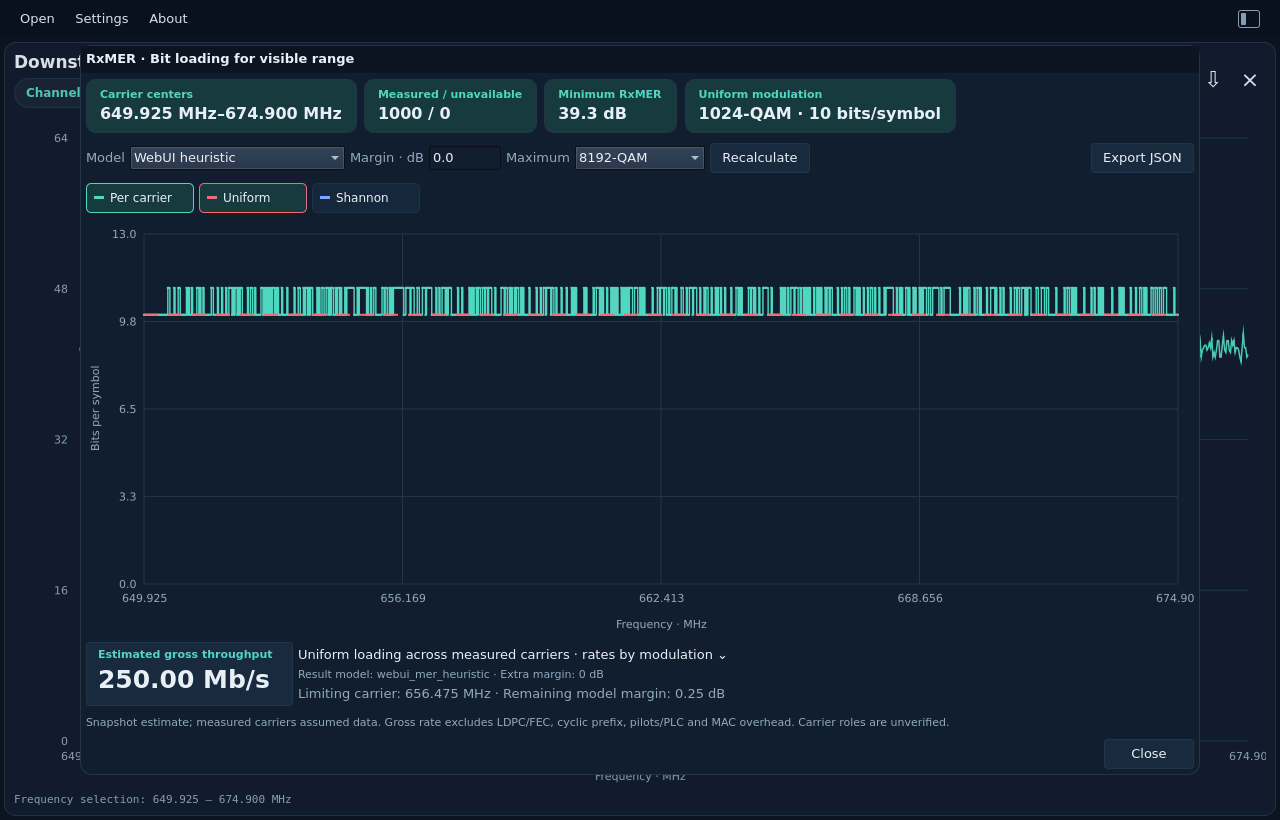
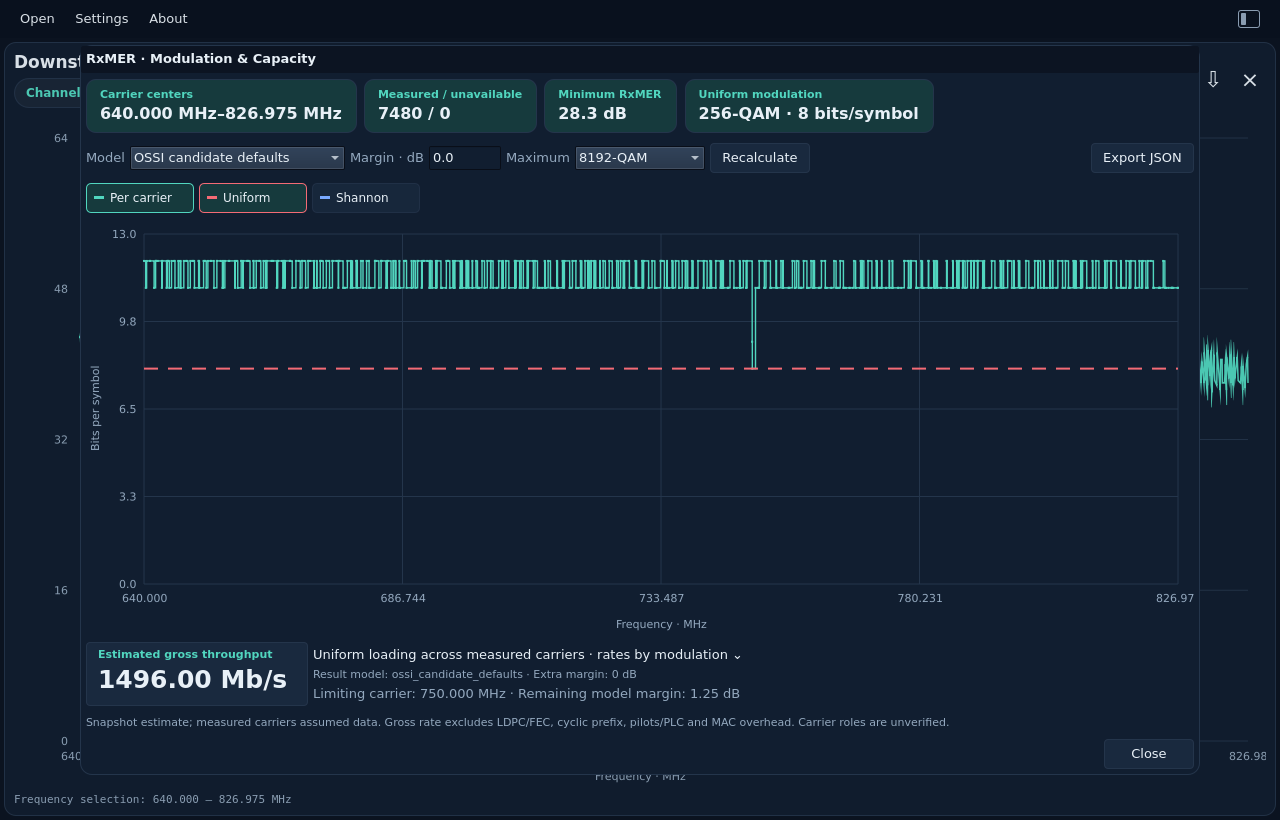
BugFix: Improve full-capture RxMER analysis - Rename popup to Modulation & Capacity - Default viewer analysis to OSSI candidate targets - Explain results below the selected model minimum - Highlight Recalculate when settings change - Preserve the CLI default and document model choice - Refresh user 

diff --git a/apps/qt/tests/tst_rxmer.qml b/apps/qt/tests/tst_rxmer.qml
@@ -48,27 +48,107 @@ TestCase {
         original.spectrumEnabled = false
         insights.working = false
         insights.selectedCap = 13
+        findChild(insights.contentItem,"rxmerBitLoadingModel").currentIndex = 1
     }
     function cleanup() { insights.close() }
+    function test_full_capture_below_model_target_is_a_completed_result_data() {
+        return [{tag: "dark", preference: 1}, {tag: "light", preference: 2}]
+    }
+    function test_full_capture_below_model_target_is_a_completed_result(data) {
+        const zoomAnalysis = insights.analysis
+        try {
+            appearance.preference = data.preference
+            insights.analysis = Object.assign({}, zoomAnalysis, {
+                selection: {start_frequency_hz:640000000,stop_frequency_hz:826975000},
+                coverage: {measured_count:7480,unavailable_count:0},
+                summary: {minimum_rxmer_db:28.25,uniform_bit_loading:null,uniform_modulation:null,
+                    limiting_frequency_hz:750000000,status:"below_model_minimum"},
+                rate: {estimated_gross_rate_bps:null}
+            })
+            insights.openRange(0,7480)
+            tryCompare(insights,"opened",true)
+            compare(insights.title,"RxMER · Modulation & Capacity")
+            compare(requests[0].start,0)
+            compare(requests[0].count,7480)
+            const status = findChild(insights.contentItem,"rxmerModulationStatus")
+            verify(status.visible)
+            verify(status.text.indexOf("Analysis complete") >= 0)
+            verify(status.text.indexOf("weakest carrier") >= 0)
+            compare(findChild(insights.contentItem,"rxmerGrossRateValue").text,"Unavailable")
+            verify(findChild(insights.contentItem,"rxmerGrossRateChip").enabled)
+        } finally {
+            insights.close()
+            insights.analysis = zoomAnalysis
+        }
+    }
+    function test_changed_controls_emphasize_recalculate_until_result_arrives_data() {
+        return [{tag: "dark", preference: 1}, {tag: "light", preference: 2}]
+    }
+    function test_changed_controls_emphasize_recalculate_until_result_arrives(data) {
+        const savedAnalysis = insights.analysis
+        const margin = findChild(insights.contentItem,"rxmerBitLoadingMargin")
+        const model = findChild(insights.contentItem,"rxmerBitLoadingModel")
+        const recalculate = findChild(insights.contentItem,"recalculateRxmerBitLoading")
+        try {
+            appearance.preference = data.preference
+            margin.text = "0.0"
+            insights.analysis = Object.assign({}, savedAnalysis, {
+                model: {id:"ossi_candidate_defaults",extra_margin_db:0,maximum_bit_loading:13}
+            })
+            insights.openRange(0,7480)
+            tryCompare(insights,"opened",true)
+            compare(recalculate.borderHighlighted,false)
+            margin.text = "1.0"
+            compare(recalculate.borderHighlighted,true)
+            compare(recalculate.background.border.color,appearance.accent)
+            compare(recalculate.background.border.width,2)
+            margin.text = "0.0"
+            compare(recalculate.borderHighlighted,false)
+            model.currentIndex = 0
+            compare(recalculate.borderHighlighted,true)
+            model.currentIndex = 1
+            compare(recalculate.borderHighlighted,false)
+            insights.selectedCap = 10
+            compare(recalculate.borderHighlighted,true)
+            mouseClick(recalculate)
+            compare(requests[requests.length-1].cap,10)
+            // A submitted request is not yet a successful result.
+            compare(recalculate.borderHighlighted,true)
+            insights.working = true
+            compare(recalculate.borderHighlighted,true)
+            insights.working = false
+            insights.analysis = Object.assign({}, savedAnalysis, {
+                model: {id:"ossi_candidate_defaults",extra_margin_db:0,maximum_bit_loading:10}
+            })
+            compare(recalculate.borderHighlighted,false)
+            insights.selectedCap = 13
+            compare(recalculate.borderHighlighted,true)
+        } finally {
+            insights.close()
+            insights.analysis = savedAnalysis
+            insights.selectedCap = 13
+            margin.text = "0.0"
+        }
+    }
     function test_popup_uses_original_zoom_model_margin_and_uniform_rate() {
         insights.openRange(400,1001)
         tryCompare(insights,"opened",true)
         compare(requests.length,1)
         compare(requests[0].start,400)
         compare(requests[0].count,1001)
-        compare(requests[0].model,"webui_mer_heuristic")
+        compare(requests[0].model,"ossi_candidate_defaults")
         compare(requests[0].cap,13)
         compare(findChild(insights.contentItem,"rxmerGrossRateValue").text,"250.25 Mb/s")
         const margin = findChild(insights.contentItem,"rxmerBitLoadingMargin")
         const model = findChild(insights.contentItem,"rxmerBitLoadingModel")
         const recalculate = findChild(insights.contentItem,"recalculateRxmerBitLoading")
         margin.text = "1.5"
-        model.currentIndex = 1
+        model.currentIndex = 0
         verify(waitForRendering(recalculate))
         mouseClick(recalculate)
         compare(requests.length,2)
         compare(requests[1].margin,1.5)
-        compare(requests[1].model,"ossi_candidate_defaults")
+        compare(requests[1].model,"webui_mer_heuristic")
         margin.text = "-1"
         compare(recalculate.enabled,false)
         margin.text = "0.0"

diff --git a/apps/qt/qml/RxMerBitLoadingDialog.qml b/apps/qt/qml/RxMerBitLoadingDialog.qml
@@ -19,6 +19,10 @@ Dialog {
     readonly property var summary: analysis.summary || ({})
     readonly property var selection: analysis.selection || ({})
     readonly property var coverage: analysis.coverage || ({})
+    readonly property bool settingsChanged: !!analysis.model && (
+        (model.currentValue || "ossi_candidate_defaults") !== analysis.model.id
+        || Number(margin.text) !== analysis.model.extra_margin_db
+        || selectedCap !== analysis.model.maximum_bit_loading)
     signal analysisRequested(int start, int count, string model, real marginDb, int cap)
     signal cancelRequested()
     signal exportRequested()
@@ -28,7 +32,7 @@ Dialog {
     height: Math.min(730, parent ? parent.height - 32 : 730)
     modal: true
     focus: true
-    title: "RxMER · Bit loading for visible range"
+    title: "RxMER · Modulation & Capacity"
     background: Rectangle { color: dialog.theme.panel; border.color: dialog.theme.line; radius: 12 }
     onClosed: { ratesDialog.close(); cancelRequested() }
     /*
@@ -43,7 +47,7 @@ Dialog {
         requestAnalysis()
     }
     function requestAnalysis() {
-        analysisRequested(rangeStart, rangeCount, model.currentValue || "webui_mer_heuristic", Number(margin.text), selectedCap)
+        analysisRequested(rangeStart, rangeCount, model.currentValue || "ossi_candidate_defaults", Number(margin.text), selectedCap)
     }
     function rateText(value) {
         return value === null || value === undefined ? "Unavailable" : (value / 1000000).toFixed(2) + " Mb/s"
@@ -71,7 +75,8 @@ Dialog {
             ComboBox {
                 id: model
                 objectName: "rxmerBitLoadingModel"
-                Accessible.name: "RxMER bit-loading model"
+                Accessible.name: "RxMER modulation model"
+                currentIndex: 1
                 textRole: "label"; valueRole: "id"
                 model: [{label: "WebUI heuristic", id: "webui_mer_heuristic"}, {label: "OSSI candidate defaults", id: "ossi_candidate_defaults"}, {label: "Ideal Shannon", id: "ideal_shannon"}]
                 Layout.preferredWidth: 215
@@ -96,7 +101,16 @@ Dialog {
                 onActivated: dialog.selectedCap = currentValue
                 Layout.preferredWidth: 130
             }
-            ThemeButton { theme: dialog.theme; text: "Recalculate"; objectName: "recalculateRxmerBitLoading"; enabled: margin.acceptableInput; onClicked: dialog.requestAnalysis() }
+            ThemeButton {
+                theme: dialog.theme
+                text: "Recalculate"
+                objectName: "recalculateRxmerBitLoading"
+                enabled: margin.acceptableInput
+                borderHighlighted: dialog.settingsChanged
+                ToolTip.visible: hovered && dialog.settingsChanged
+                ToolTip.text: "Settings changed. Recalculate to update the result."
+                onClicked: dialog.requestAnalysis()
+            }
             Item { Layout.fillWidth: true }
             ThemeButton { theme: dialog.theme; text: "Export JSON"; enabled: !!dialog.analysis.summary; onClicked: dialog.exportRequested() }
         }
@@ -132,6 +146,17 @@ Dialog {
             }
             Item { Layout.fillWidth: true }
             BusyIndicator { running: dialog.working; visible: running; implicitWidth: 30; implicitHeight: 30 }
+        }
+        Label {
+            objectName: "rxmerModulationStatus"
+            Layout.fillWidth: true
+            wrapMode: Text.Wrap
+            visible: !!dialog.analysis.summary && dialog.summary.status !== "meets_measured_target"
+            text: dialog.summary.status === "no_measurements"
+                ? "No measured RxMER values are available in this range."
+                : "Analysis complete: no uniform modulation meets this model across the selected range. The weakest carrier limits the result. Try OSSI candidate defaults for lower QAM coverage, or inspect a smaller range."
+            color: dialog.theme.text
+            font.bold: true
         }
         Label {
             Layout.fillWidth: true

diff --git a/apps/qt/qml/ThemeButton.qml b/apps/qt/qml/ThemeButton.qml
@@ -8,6 +8,8 @@ import QtQuick.Controls.Basic as Basic
 Basic.Button {
     id: control
     required property var theme
+    // Marks a pending action without changing the button fill or text contrast.
+    property bool borderHighlighted: false
     readonly property color foreground: !enabled ? theme.muted
         : highlighted ? (theme.dark ? theme.background : theme.panel) : theme.text
     leftPadding: 12
@@ -30,7 +32,7 @@ Basic.Button {
         color: !control.enabled ? control.theme.button
             : control.highlighted ? control.theme.accent
             : control.down || control.hovered ? control.theme.accentSoft : control.theme.button
-        border.color: control.visualFocus ? control.theme.accent : control.theme.line
-        border.width: control.visualFocus ? 2 : 1
+        border.color: control.visualFocus || control.borderHighlighted ? control.theme.accent : control.theme.line
+        border.width: control.visualFocus || control.borderHighlighted ? 2 : 1
     }
 }

diff --git a/apps/qt/qml/MeasurementChart.qml b/apps/qt/qml/MeasurementChart.qml
@@ -139,7 +139,7 @@ ColumnLayout {
         Basic.MenuItem {
             id: bitLoadingItem
             objectName: "analyzeRxmerBitLoading"
-            text: "Bit loading…"
+            text: "Modulation & Capacity…"
             visible: chart.rxmerEnabled
             height: visible ? implicitHeight : 0
             contentItem: Label { text: bitLoadingItem.text; color: chart.theme.text }

diff --git a/apps/viewer/tests/rxmer_analysis.rs b/apps/viewer/tests/rxmer_analysis.rs
@@ -62,3 +62,46 @@ fn bounded_plot_preserves_a_narrow_notch_and_breaks_over_omitted_missing_data() 
     assert_eq!(plot.analysis.summary.uniform_bit_loading, Some(8));
     assert_eq!(plot.analysis.coverage.measured_count, 4999);
 }
+
+#[test]
+fn full_capture_analysis_keeps_the_weakest_carrier_and_can_use_lower_qam_targets() {
+    use viewer::measurements::rxmer::BitLoadingModel;
+    let capture = Capture::from_bytes(pnm_fixtures::RXMER.to_vec(), "rxmer.bin".into()).unwrap();
+    let viewport = capture.chart_range(0, 7480).unwrap();
+    assert_eq!(viewport.count, 7480);
+    assert!(viewport.points.len() <= MAX_VIEW_SAMPLES);
+    let webui = capture
+        .rxmer_bit_loading(
+            viewport.start,
+            viewport.count,
+            RxMerAnalysisRequest {
+                model: BitLoadingModel::WebuiMerHeuristic,
+                ..Default::default()
+            },
+        )
+        .unwrap();
+    assert_eq!(webui.summary.minimum_rxmer_db, Some(28.25));
+    assert_eq!(webui.summary.limiting_frequency_hz, Some(750_000_000));
+    assert_eq!(webui.summary.status, "below_model_minimum");
+    assert_eq!(webui.rate.estimated_gross_rate_bps, None);
+    let plot = bounded(webui);
+    assert!(plot.analysis.subcarriers.len() <= MAX_VIEW_SAMPLES);
+    assert_eq!(plot.analysis.selection.sample_count, 7480);
+    assert!(plot
+        .analysis
+        .subcarriers
+        .iter()
+        .any(|point| point.frequency_hz == 750_000_000 && point.rxmer_db == Some(28.25)));
+    let ossi = capture
+        .rxmer_bit_loading(
+            viewport.start,
+            viewport.count,
+            RxMerAnalysisRequest {
+                model: BitLoadingModel::OssiCandidateDefaults,
+                ..Default::default()
+            },
+        )
+        .unwrap();
+    assert_eq!(ossi.summary.uniform_modulation, Some("qam_256"));
+    assert_eq!(ossi.rate.estimated_gross_rate_bps, Some(1_496_000_000));
+}

diff --git a/docs/ui/measurements/rxmer/README.md b/docs/ui/measurements/rxmer/README.md
@@ -14,12 +14,16 @@ Example: `rxmer.bin`.
 </picture>
 
 
-## Bit loading and estimated gross throughput
+## Modulation & Capacity
 
 Zoom the RxMER chart to the frequency range you want, then right-click inside
-it and select **Bit loading…**. With no zoom, the popup uses the whole capture.
+it and select **Modulation & Capacity…**. With no zoom, the popup uses the whole capture.
 It analyzes the original subcarriers, even when the main graph shows a sampled
 overview. Closing it leaves your capture and zoom unchanged.
+
+The popup uses the whole capture when opened before zooming; zooming is
+optional. If the selected model cannot support one uniform order, the popup
+still shows the per-carrier analysis and explains the limiting result.
 
 The teal stepped line estimates each measured carrier's supported bits per
 symbol. The red horizontal line shows the highest **single modulation** that
@@ -28,15 +32,17 @@ carrier limits that line; averaging the good carriers cannot hide a bad one.
 Toggle **Shannon** to show the separate ideal upper bound in blue.
 
 Choose a model, add a nonnegative margin in dB if needed, select a maximum QAM,
-and press **Recalculate**. The initial cap is 8192-QAM (13 bits/symbol), an
+and press **Recalculate**. Its border turns teal when a setting differs from
+the displayed result, and clears after the updated result arrives. Reverting
+to the displayed settings also clears the highlight. The initial cap is 8192-QAM (13 bits/symbol), an
 analysis choice rather than proof of modem capability. Results are estimates
 from one capture, not a promise of error-free operation or a configured CMTS
 profile. Missing readings remain gaps and the popup reports incomplete coverage.
 
 | Model | What it means |
 | --- | --- |
-| WebUI heuristic (default) | Same 256–4096-QAM MER targets as PyPNM-CMTS-WebUI selection insights |
-| OSSI candidate defaults | DOCSIS 3.1 CM-OSSI I27 D.2.11 candidate-profile default MER targets; actual configured targets may differ |
+| WebUI heuristic | Same 256–4096-QAM MER targets as PyPNM-CMTS-WebUI selection insights |
+| OSSI candidate defaults (default in viewer) | DOCSIS 3.1 CM-OSSI I27 D.2.11 candidate-profile default MER targets; actual configured targets may differ |
 | Ideal Shannon | Ideal AWGN bound using MER as an SNR proxy; not a practical receiver threshold |
 
 The large **Estimated gross throughput** chip assumes the measured carriers
@@ -63,17 +69,49 @@ coverage, per-carrier values and rate scenarios to a new file. This is separate
 from the main capture's raw JSON export. The CLI can reproduce the same analysis;
 see [CLI options](../../../cli/usage.md#rxmer-bit-loading-analysis).
 
-The native screenshots below use a dragged 649.925–674.900 MHz window with
-1,000 measured carriers. Its default-model estimate is 250.00 Mb/s.
+The native screenshots below show the full 640–826.975 MHz capture using
+OSSI candidate defaults: 7,480 measured carriers and a gross estimate of
+1,496.00 Mb/s at 256-QAM.
 
 <picture>
   <source media="(prefers-color-scheme: dark)" srcset="images/rxmer-bit-loading-dark.png">
   <source media="(prefers-color-scheme: light)" srcset="images/rxmer-bit-loading-light.png">
-  <img alt="RxMER visible-range bit-loading popup with per-carrier and uniform traces, model controls and gross throughput" src="images/rxmer-bit-loading-dark.png" width="1000">
+  <img alt="RxMER Modulation & Capacity popup with per-carrier and uniform traces, model controls and gross throughput" src="images/rxmer-bit-loading-dark.png" width="1000">
 </picture>
 
 <picture>
   <source media="(prefers-color-scheme: dark)" srcset="images/rxmer-uniform-rates-dark.png">
   <source media="(prefers-color-scheme: light)" srcset="images/rxmer-uniform-rates-light.png">
   <img alt="Uniform rates by modulation grid, distinguishing modeled support from hypothetical gross rates" src="images/rxmer-uniform-rates-dark.png" width="1000">
+</picture>
+
+### Why the whole capture can have no uniform result
+
+The example capture has a weakest reading of 28.25 dB (shown as 28.3 dB) at
+750 MHz. The optional WebUI heuristic only defines targets for 256–4096-QAM, starting
+at 33 dB. For the complete capture it therefore reports **Below model minimum**
+and an unavailable uniform throughput. That is a completed analysis, not a
+file-loading failure. Zooming can exclude the weak carrier and change the result.
+
+The viewer starts with **OSSI candidate defaults**. Choose that model and
+**Recalculate** after switching models to evaluate the same
+capture using its lower-QAM targets. This example then supports a uniform
+256-QAM at the model's default 27 dB target: 7,480 measured carriers × 8 bits ×
+25,000 Hz = **1,496 Mb/s** gross useful-symbol rate, before the stated overheads.
+Do not interpret this as a configured modem profile or achievable payload speed.
+
+The CLI retains its existing WebUI default. To reproduce the viewer’s initial
+result, use `--rxmer-bit-loading --model ossi_candidate_defaults`. All
+calculations and JSON fields still use the same shared Rust analysis.
+
+### Changed settings
+
+A teal **Recalculate** border means the controls differ from the graph's result.
+For example, the margin below is now 1.0 dB while the result still records 0 dB.
+Press **Recalculate** to update it. A failed calculation keeps the reminder.
+
+<picture>
+  <source media="(prefers-color-scheme: dark)" srcset="images/rxmer-recalculate-pending-dark.png">
+  <source media="(prefers-color-scheme: light)" srcset="images/rxmer-recalculate-pending-light.png">
+  <img alt="Changed margin highlights the Recalculate button border while preserving the prior result" src="images/rxmer-recalculate-pending-dark.png" width="1000">
 </picture>

diff --git a/docs/cli/usage.md b/docs/cli/usage.md
@@ -221,7 +221,7 @@ and cannot be combined with `--header-only`.
 The [complete analysis example](examples/rxmer-bit-loading.json) uses the bundled
 fixture's 650–675 MHz range: 1,001 measured carriers, minimum 39.25 dB, uniform
 1024-QAM and **250,250,000 gross bit/s** under the default WebUI model.
-The [RxMER guide](../ui/measurements/rxmer/README.md#bit-loading-and-estimated-gross-throughput)
+The [RxMER guide](../ui/measurements/rxmer/README.md#modulation--capacity)
 explains the graph, policies, missing-carrier handling and throughput assumptions.
 
 Gross rate is measured carrier count × uniform bits/symbol × spacing. It assumes
@@ -229,3 +229,7 @@ those positions carry data and excludes LDPC/FEC, cyclic-prefix, pilot/PLC and
 MAC overhead. Carrier roles and device modulation capability are not inferred
 from RxMER. A policy estimate is not an error-free guarantee. Scenario rates are
 hypothetical even when their status is `below_target` or `not_covered_by_model`.
+
+The viewer’s **Modulation & Capacity** popup starts with OSSI candidate
+defaults. Use `--model ossi_candidate_defaults` to reproduce that initial
+selection in the CLI; the CLI’s existing WebUI heuristic default is unchanged.

diff --git a/docs/ui/README.md b/docs/ui/README.md
@@ -77,8 +77,8 @@ keeps the current capture. Unsupported measurements can still be decoded with
   decision boundaries, with independent toggles and drag/wheel zoom. See the
   [measurement guide](measurements/constellation/README.md).
 - The I/Q dots and density views show the full capture and do not use range zoom.
-- In RxMER, right-click → **Bit loading…** analyzes the visible range. See the
-  [RxMER guide](measurements/rxmer/README.md#bit-loading-and-estimated-gross-throughput).
+- In RxMER, right-click → **Modulation & Capacity…** analyzes the visible range. See the
+  [RxMER guide](measurements/rxmer/README.md#modulation--capacity).
 - For channel estimation and current/last-update upstream pre-EQ, choose **Magnitude**,
   **Group delay**, or **I/Q scatter**. The upstream plot describes correction
   coefficients, not a measured plant response. See [current pre-EQ](measurements/upstream-pre-eq/README.md)

diff --git a/README.md b/README.md
@@ -39,7 +39,7 @@ The current viewer supports:
 
 | Capture | Views |
 | --- | --- |
-| [RxMER](docs/ui/measurements/rxmer/README.md) | MER by frequency; [bit loading and gross-rate analysis](docs/ui/measurements/rxmer/README.md#bit-loading-and-estimated-gross-throughput) |
+| [RxMER](docs/ui/measurements/rxmer/README.md) | MER by frequency; [Modulation & Capacity](docs/ui/measurements/rxmer/README.md#modulation--capacity) |
 | [Spectrum Analyzer](docs/ui/measurements/spectrum-analyzer/README.md) | Amplitude by frequency and calculated RBW |
 | [DS Channel Estimation](docs/ui/measurements/channel-estimation/README.md) | Magnitude, group delay and I/Q dots and density |
 | [US Pre-EQ (current)](docs/ui/measurements/upstream-pre-eq/README.md) | Coefficient magnitude, group delay and I/Q dots and density |

diff --git a/docs/development/screenshots.md b/docs/development/screenshots.md
@@ -33,7 +33,7 @@ README table links with any move. Use the filename pairs below:
 | Filename stem (append `-dark.png` and `-light.png`) | Fixture and view |
 | --- | --- |
 | `home` | Close capture; show navigation |
-| `rxmer-bit-loading` | `rxmer.bin`: zoom, right-click → Bit loading… |
+| `rxmer-bit-loading` | `rxmer.bin`: full range, right-click → Modulation & Capacity… (OSSI defaults) |
 | `rxmer-uniform-rates` | Same popup → Estimated gross throughput chip |
 | `rxmer` | `rxmer.bin` |
 | `spectrum` | `spectrum_analyzer.bin`, 300–350 MHz range tab, WindowAvg N=101 and a selected power band |
